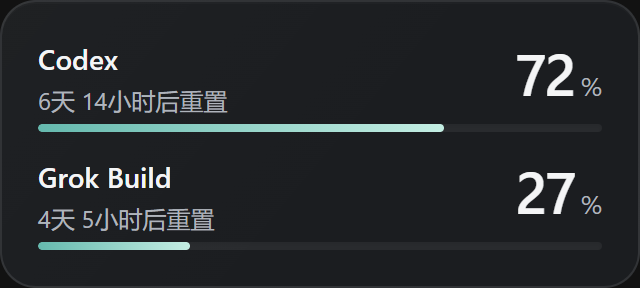
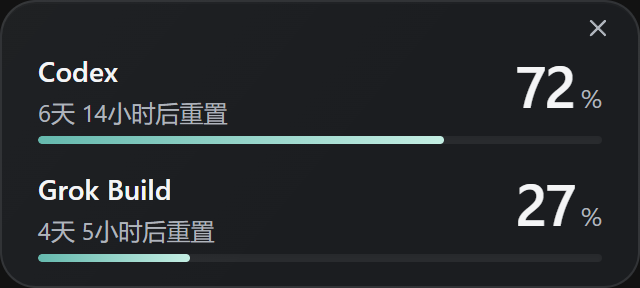
fix(windows): allow closing the desktop quota widget

diff --git a/dashboard/src/quota.jsx b/dashboard/src/quota.jsx
@@ -1,6 +1,6 @@
 import React, { useEffect, useRef, useState } from "react";
 import { createRoot } from "react-dom/client";
-import { ChevronDown, ChevronUp, GripHorizontal, Settings2, ArrowUpRight, Check } from "lucide-react";
+import { ChevronDown, ChevronUp, GripHorizontal, Settings2, ArrowUpRight, Check, X } from "lucide-react";
 import { copy, setCopyLocale } from "./lib/copy";
 import { desktopQuotaRows, selectQuotaRows, mergeQuotaSnapshot, quotaPeriodLabel, quotaResetCountdown } from "./lib/desktop-quota.js";
 import { limitProviderName } from "./lib/limits-providers.js";
@@ -52,7 +52,8 @@ export function QuotaWidget() {
         onPointerMove={event => { if (drag.current && event.buttons === 1 && Math.hypot(event.clientX - drag.current.x, event.clientY - drag.current.y) > 4) { drag.current = null; send("quota:drag"); } }}
         onPointerUp={() => { drag.current = null; }}><GripHorizontal size={14} /></button>
       {expanded && <button aria-label={copy("quota.choose")} onClick={() => setSettings(value => !value)} aria-pressed={settings}><Settings2 size={13} /></button>}
-      <button aria-label={copy(expanded ? "quota.collapse" : "quota.expand")} aria-expanded={expanded} onClick={toggle}>{expanded ? <ChevronUp size={14} /> : <ChevronDown size={14} />}</button>
+      <button className="quota-toggle" aria-label={copy(expanded ? "quota.collapse" : "quota.expand")} aria-expanded={expanded} onClick={toggle}>{expanded ? <ChevronUp size={14} /> : <ChevronDown size={14} />}</button>
+      <button className="quota-close" aria-label={copy("quota.close")} title={copy("quota.close_hint")} onClick={() => send("quota:close")}><X size={14} /></button>
     </header>
     {!expanded ? <button className="quota-summary" onClick={toggle} aria-label={copy("quota.expand")}>
       {compact.length ? compact.map(row => <span className={`compact-metric ${row.remaining <= 10 ? "low" : ""}`} key={row.id} title={`${limitProviderName(row.provider)} · ${label(row)} · ${copy("quota.remaining")}`}><span className="compact-name">{limitProviderName(row.provider)}</span><span className="compact-reading"><strong>{remaining(row)}<small>{copy("quota.percent")}</small></strong></span><span className="compact-reset" title={Number.isFinite(row.resetMs) ? copy("quota.resets", {time: new Intl.DateTimeFormat(context.locale || undefined, {month:"short",day:"numeric",hour:"2-digit",minute:"2-digit"}).format(new Date(row.resetMs))}) : undefined}>{resetText(row)}</span><span className="compact-track quota-track" aria-hidden="true"><span style={{ width: `${row.remaining}%` }} /></span></span>) : <span className="empty-compact">{copy(context.limits ? rows.length ? "quota.unavailable" : "quota.empty" : "quota.loading")}</span>}

diff --git a/dashboard/src/quota.css b/dashboard/src/quota.css
@@ -20,7 +20,7 @@ svg { flex-shrink:0; }
 .quota header .drag-handle svg { display:none; }
 .drag-handle::after { content:""; width:22px; height:3px; border-radius:3px; background:currentColor; opacity:.5; }
 .quota:not(.expanded) header { position:absolute; height:10px; top:0; left:12px; right:12px; z-index:1; }
-.quota:not(.expanded) header>button:last-child { display:none; }
+.quota:not(.expanded) header>.quota-toggle { display:none; }
 .quota:not(.expanded) .drag-handle { position:absolute; left:calc(50% - 22px); width:44px; height:10px; opacity:0; transition:opacity .2s; }
 .quota:not(.expanded):hover .drag-handle,.quota:not(.expanded):focus-within .drag-handle { opacity:1; }
 .quota-status { display:none; }
@@ -65,3 +65,9 @@ header button:hover,footer button:hover,.quota-choice:hover { background:var(--t
 @keyframes quota-reveal { from { opacity:.5; transform:translateY(-3px); } to { opacity:1; transform:translateY(0); } }
 @media(prefers-reduced-motion:reduce) { *,*::after { animation:none!important; transition:none!important; } .quota-track>span::after { display:none; } }
 @media(forced-colors:active) { .quota { border:1px solid CanvasText; } .quota-track { forced-color-adjust:none; --track:GrayText; --accent-start:Highlight; --accent-end:Highlight; } }
+
+.quota:not(.expanded) header { height:22px; top:2px; left:8px; right:8px; }
+.quota:not(.expanded) .quota-close { margin-left:auto; width:24px; height:22px; }
+.quota:not(.expanded) .drag-handle { height:16px; }
+.quota-summary { padding-top:24px; padding-bottom:11px; }
+.quota-close:hover { color:var(--fg); }

diff --git a/dashboard/src/quota.test.jsx b/dashboard/src/quota.test.jsx
@@ -26,3 +26,16 @@ describe("desktop quota interactions", () => {
     expect(postMessage).toHaveBeenCalledWith("quota:collapse");
   });
 });
+
+it("closes from compact and expanded views without expanding or opening the dashboard", () => {
+  const postMessage = vi.fn();
+  window.chrome = { webview: { postMessage, addEventListener: vi.fn(), removeEventListener: vi.fn() } };
+  render(<QuotaWidget />);
+  postMessage.mockClear();
+  fireEvent.click(screen.getByRole("button", {name:"Close widget"}));
+  expect(postMessage.mock.calls).toEqual([["quota:close"]]);
+  fireEvent.click(screen.getAllByRole("button", {name:"Expand limits"})[0]);
+  postMessage.mockClear();
+  fireEvent.click(screen.getByRole("button", {name:"Close widget"}));
+  expect(postMessage.mock.calls).toEqual([["quota:close"]]);
+});

diff --git a/TokenTrackerWin/QuotaWidgetWindow.cs b/TokenTrackerWin/QuotaWidgetWindow.cs
@@ -154,6 +154,7 @@ internal sealed class QuotaWidgetWindow : Window
             case "quota:ready": _ready = true; _lastContext = null; PushContext(); break;
             case "quota:expand": ResizeWidget(true); break;
             case "quota:collapse": ResizeWidget(false); break;
+            case "quota:close": SetEnabled(false); break;
             case "quota:dashboard": _openDashboard(); break;
             case "quota:drag":
                 ReleaseCapture();

diff --git a/TokenTrackerWin/README.md b/TokenTrackerWin/README.md
@@ -12,6 +12,11 @@ tray** application.
 
 ### Desktop quota
 
+Use the top-right **Close widget** button in either view to hide it. This disables
+the widget persistently (including after restart); reopen it from **Desktop quota**
+in the tray menu. Closing the widget does not quit the app.
+
+
 Right-click the tray icon and enable **Desktop quota**. The 320 × 144 DIP
 surface shows two remaining-quota bars and actual reset countdowns; click to expand to 360 × 340 DIP.
 Use the sliders button to choose up to two provider windows, drag the grip to
